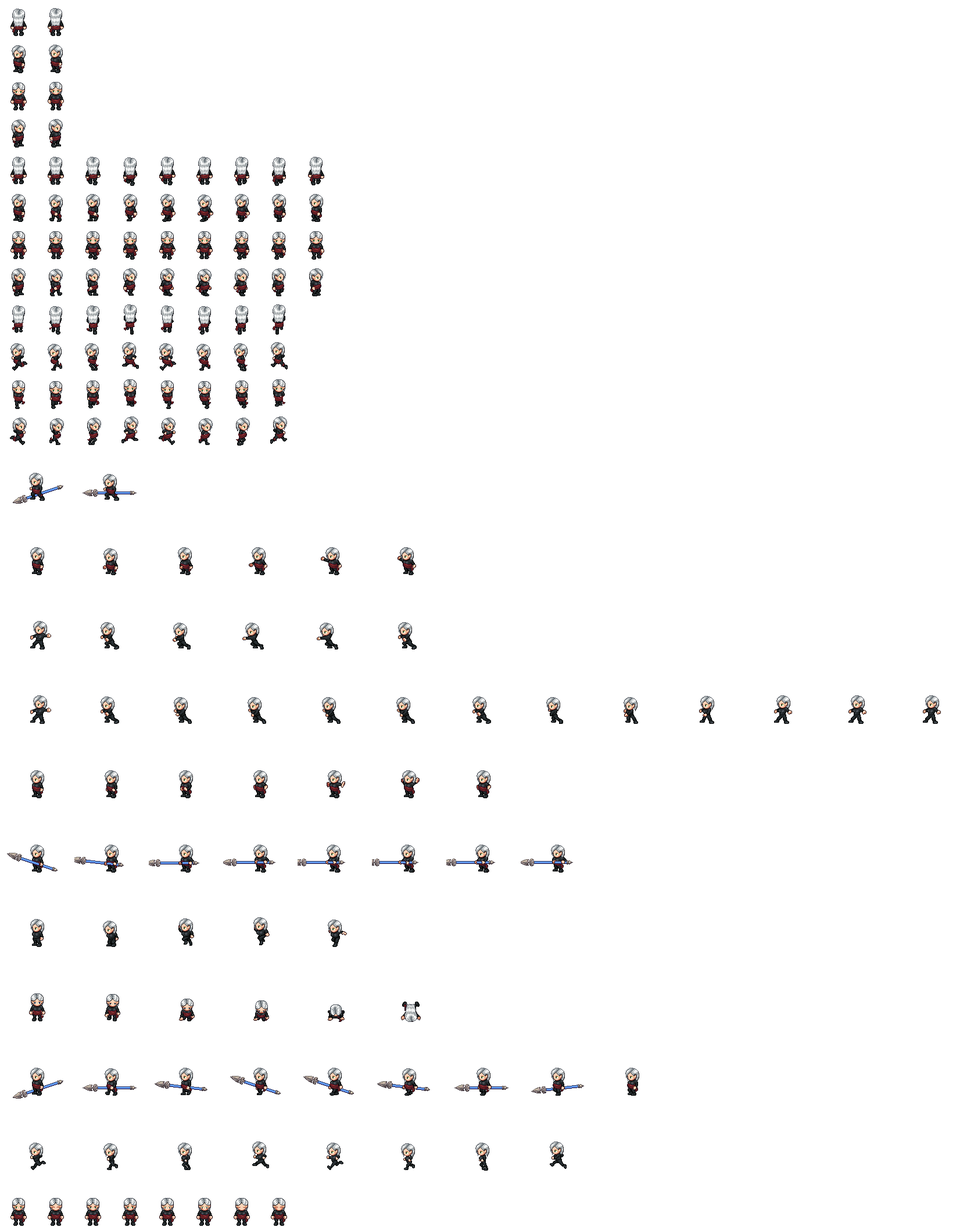
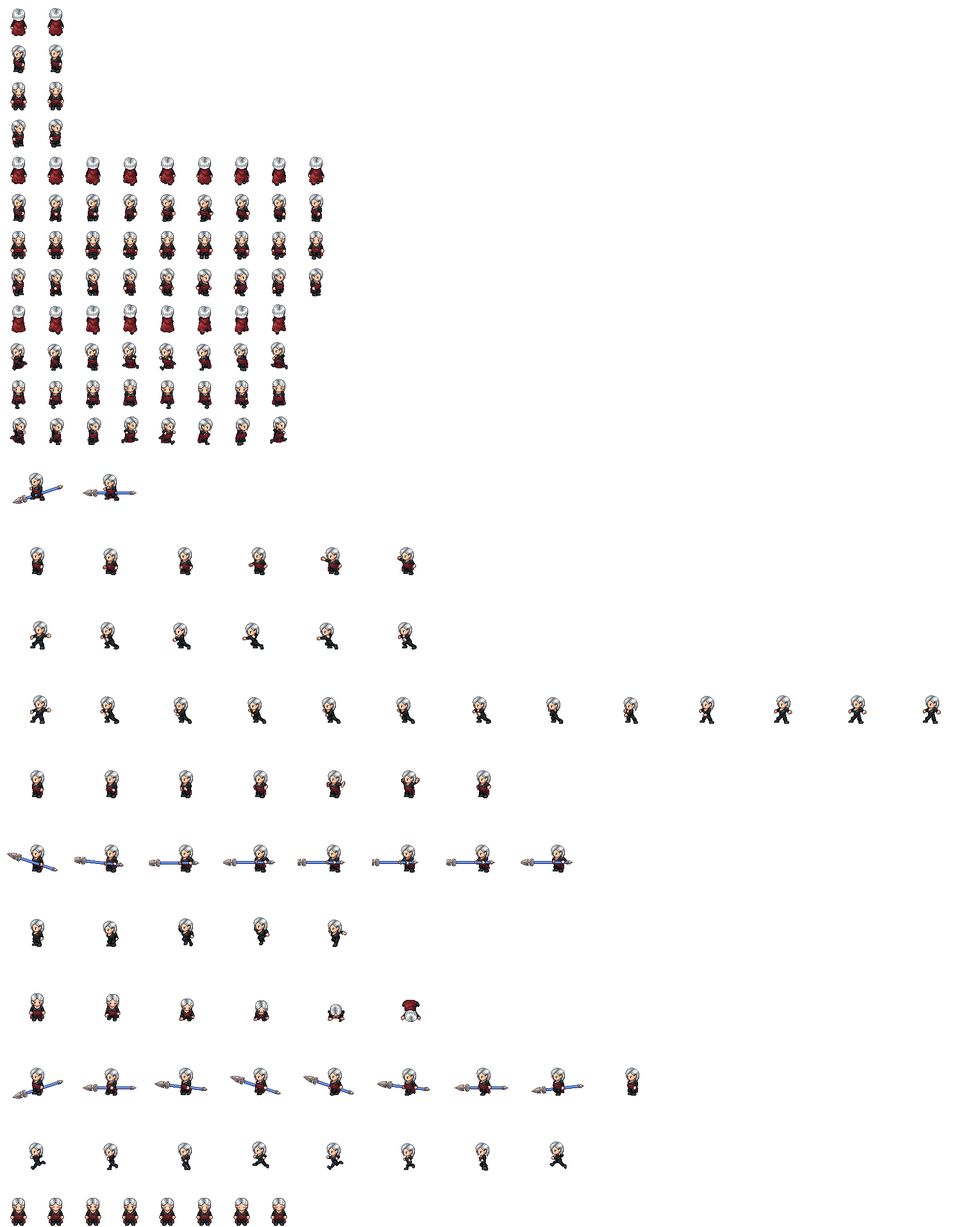
Emerald Blood: customize Ilya & Kairo in creator, Kairo's burned look, Liora redesign + romance scene, more hairstyles
Claude-Session: https://claude.ai/code/session_01Y9XB2BHqdWdEP8tdmCfuZX

diff --git a/emerald-blood/js/ui.js b/emerald-blood/js/ui.js
@@ -42,37 +42,92 @@ const UI = {
   creator() {
     return new Promise(resolve => {
       $('#title').classList.add('hide'); $('#creator').classList.remove('hide'); G.mode = 'creator';
-      const look = defaultLook(); let name = 'Ren';
-      G.S = newState(look, name);
+      const look = defaultLook(); let name = 'Ren', tab = 'me';
+      G.S = newState(look, name); const cast = G.S.cast;
       const box = $('#crOpts');
       const swatch = (mat, key) => { const p = G.man.pal[mat][key]; return p ? p[Math.min(3, p.length - 1)] : '#888'; };
-      let prev = null, dirI = 0, animT = 0, raf = 0;
-      const rebuild = () => { prev = composeLook(look, false, [0, 0, 576, 512]); playerPortrait($('#crPort'), 'happy'); };
+      const KCOL = { black: '#2a2a2e', blue: '#3a5fc0', brown: '#7a4e2c', gray: '#8a8f96', green: '#3f8f4a', lavender: '#b39ad8', lightblue: '#8ec8ee', pink: '#f29ac0', red: '#c43c3c', white: '#eeeeee', darkblue: '#24346e', maroon: '#7a2436' };
+      let prev = null, prev2 = null, dirI = 0, raf = 0;
+      const region = [0, 0, 576, 512];
+      const listPreview = (list, cell0) => {
+        const out = document.createElement('canvas'); out.width = 576; out.height = 512; const o = out.getContext('2d');
+        for (const [pn, col] of list) { const img = G.img['part_' + pn], meta = G.man.parts[pn]; if (!img || !meta) continue;
+          const c = document.createElement('canvas'); c.width = 576; c.height = 512; c.getContext('2d').drawImage(img, 0, 0, 576, 512, 0, 0, 576, 512); o.drawImage(recolor(c, meta.mat, meta.base, col), 0, 0); }
+        return out;
+      };
+      const listPortrait = (cv, list, expr, kid) => {
+        const x = cv.getContext('2d'); x.imageSmoothingEnabled = false; x.clearRect(0, 0, 32, 36); const ei = Math.max(0, EXPRS.indexOf(expr)), oy = kid ? 15 : 4;
+        for (const [pn, col] of list) { const img = G.img['part_' + pn], meta = G.man.parts[pn]; if (!img || !meta) continue;
+          const t = document.createElement('canvas'); t.width = 32; t.height = 36; t.getContext('2d').drawImage(img, (pn.startsWith('face_') ? ei * 64 : 0) + 16, img.height - 64 + oy, 32, 36, 0, 0, 32, 36);
+          x.drawImage(recolor(t, meta.mat, meta.base, col), 0, 0); }
+        glowEyes(x, 32, 36);
+      };
+      const rebuild = () => {
+        if (tab === 'me') { prev = composeLook(look, false, region); prev2 = null; playerPortrait($('#crPort'), 'happy'); }
+        else if (tab === 'ilya') { const L = castLists(cast).ilya; prev = listPreview(L); prev2 = null; listPortrait($('#crPort'), L, 'happy', true); }
+        else { const L = castLists(cast); prev = listPreview(L.kairo_kid); prev2 = listPreview(L.kairo_b.filter(([p]) => !p.startsWith('katana'))); listPortrait($('#crPort'), L.kairo_b.filter(([p]) => !p.startsWith('katana')), 'neutral', false);
+          const px = $('#crPort').getContext('2d'), d = px.getImageData(0, 0, 32, 36), q = d.data;
+          for (const [bx, by] of burnPts(27, 29, 1)) { const X = bx - 16, Y = by - 4; if (X < 0 || Y < 0 || X >= 32 || Y >= 36) continue; const i = (Y * 32 + X) * 4, r = q[i], g = q[i + 1], b = q[i + 2];
+            if (q[i + 3] && r > b + 18 && r >= g && !(g > 150 && g > r + 40)) { q[i] = r * .45 + 124; q[i + 1] = g * .45 + 44; q[i + 2] = b * .45 + 45; } }
+          px.putImageData(d, 0, 0); }
+        $('#crNote').innerHTML = tab === 'me' ? "Every Drag's eyes glow green.<br>That part you can't change.<br><span style='color:#ffd88a'>Your story begins when you are ten.</span>"
+          : tab === 'ilya' ? "Ilya. Your little sister.<br>Turning six. Unstoppable.<br><span style='color:#ffd88a'>She'll never take off her ribbon.</span>"
+          : "Kairo. Your best friend.<br>Your rival. Your brother.<br><span style='color:#ffd88a'>Shown as a kid, then seven years later — scarred.</span>";
+      };
       const draw = t => {
         if ($('#creator').classList.contains('hide')) return;
         const c = $('#crCv').getContext('2d'); c.imageSmoothingEnabled = false; c.clearRect(0, 0, 64, 64);
-        if (prev) { const d = ['down', 'left', 'up', 'right'][Math.floor(t / 2400) % 4]; drawOW(c, prev, 'walk', d, 1 + Math.floor(t / 110) % 8, 32, 60); }
+        const img = prev2 && Math.floor(t / 4800) % 2 ? prev2 : prev;
+        if (img) { const d = ['down', 'left', 'up', 'right'][Math.floor(t / 2400) % 4]; drawOW(c, img, 'walk', d, 1 + Math.floor(t / 110) % 8, 32, 60); }
         raf = requestAnimationFrame(draw);
       };
       const render = () => {
-        const row = (label, key, opts, names) => `<div class="opt"><label>${label}</label><button class="arr" data-k="${key}" data-d="-1">◀</button><div class="val">${esc((names || {})[look[key]] || look[key].replace(/_/g, ' '))}</div><button class="arr" data-k="${key}" data-d="1">▶</button></div>`;
-        const sw = (label, key, mat, opts) => `<div class="opt"><label>${label}</label><div class="sw">${opts.map(o => `<button data-k="${key}" data-v="${o}" class="${look[key] === o ? 'on' : ''}" style="background:${swatch(mat, o)}" title="${o}"></button>`).join('')}</div></div>`;
-        box.innerHTML = `<h2>WHO ARE YOU?</h2>
+        const obj = tab === 'me' ? look : tab === 'ilya' ? cast.ilya : cast.kairo;
+        const row = (label, key, opts, names) => `<div class="opt"><label>${label}</label><button class="arr" data-k="${key}" data-o="${opts}" data-d="-1">◀</button><div class="val">${esc((names || {})[obj[key]] || String(obj[key]).replace(/_/g, ' '))}</div><button class="arr" data-k="${key}" data-o="${opts}" data-d="1">▶</button></div>`;
+        const sw = (label, key, mat, opts) => `<div class="opt"><label>${label}</label><div class="sw">${opts.map(o => `<button data-k="${key}" data-v="${o}" class="${obj[key] === o ? 'on' : ''}" style="background:${mat ? swatch(mat, o) : KCOL[o]}" title="${o}"></button>`).join('')}</div></div>`;
+        const tabs = `<div class="crTabs">${[['me', 'You'], ['ilya', 'Ilya'], ['kairo', 'Kairo']].map(([k, n]) => `<button data-tab="${k}" class="${tab === k ? 'on' : ''}">${n}</button>`).join('')}</div>`;
+        const ILC = ['pink', 'rose', 'black', 'raven', 'dark_brown', 'chestnut', 'ginger', 'blonde', 'platinum', 'white', 'red', 'purple', 'navy', 'green'];
+        let body = '';
+        if (tab === 'me') body = `<h2>WHO ARE YOU?</h2>
           <div class="opt"><label>Name</label><input id="crName" maxlength="12" value="${esc(name)}" autocomplete="off"></div>
-          ${row('Body', 'sex', LOOK_OPTS.sex, { male: 'Brother to Ilya', female: 'Sister to Ilya' })}
+          ${row('Body', 'sex', 'sex', { male: 'Brother to Ilya', female: 'Sister to Ilya' })}
           ${sw('Skin', 'skin', 'body', LOOK_OPTS.skin)}
-          ${row('Hair', 'hair', LOOK_OPTS.hair, HAIR_NAMES)}
+          ${row('Hair', 'hair', 'hair', HAIR_NAMES)}
           ${sw('Hair color', 'hairCol', 'hair', LOOK_OPTS.hairCol)}
-          ${look.sex === 'male' ? row('Facial hair', 'beard', LOOK_OPTS.beard) : ''}
+          ${look.sex === 'male' ? row('Facial hair', 'beard', 'beard') : ''}
           ${sw('Gi', 'top', 'cloth', LOOK_OPTS.cloth)}
           ${sw('Pants', 'pants', 'cloth', LOOK_OPTS.cloth)}
           ${sw('Sash', 'obi', 'cloth', LOOK_OPTS.cloth)}
-          ${sw('Hood', 'hood', 'cloth', LOOK_OPTS.cloth)}
-          <div class="btnrow"><button class="btn" id="crRand">🎲 Random</button><button class="btn pri" id="crGo" style="flex:1">Begin ▶</button></div>`;
-        $('#crName').addEventListener('input', e => { name = e.target.value; G.S.name = name || 'Ren'; });
-        box.querySelectorAll('.arr').forEach(b => bindTap(b, () => { const k = b.dataset.k, L = LOOK_OPTS[k === 'sex' ? 'sex' : k === 'hair' ? 'hair' : 'beard'], i = L.indexOf(look[k]); look[k] = L[(i + (+b.dataset.d) + L.length) % L.length]; if (k === 'sex' && look.sex === 'female') look.beard = 'none'; sfx('blip'); render(); rebuild(); }));
-        box.querySelectorAll('.sw button').forEach(b => bindTap(b, () => { look[b.dataset.k] = b.dataset.v; sfx('blip'); render(); rebuild(); }));
-        bindTap($('#crRand'), () => { look.sex = pick(LOOK_OPTS.sex); look.skin = pick(LOOK_OPTS.skin); look.hair = pick(LOOK_OPTS.hair); look.hairCol = pick(LOOK_OPTS.hairCol.slice(0, 10)); look.beard = look.sex === 'male' ? pick(LOOK_OPTS.beard) : 'none'; ['top', 'pants', 'obi', 'hood'].forEach(k => look[k] = pick(LOOK_OPTS.cloth)); sfx('blip'); render(); rebuild(); });
+          ${sw('Hood', 'hood', 'cloth', LOOK_OPTS.cloth)}`;
+        else if (tab === 'ilya') body = `<h2>YOUR SISTER — ILYA</h2>
+          ${sw('Skin', 'skin', 'body', LOOK_OPTS.skin)}
+          ${row('Hair', 'hair', 'ilyaHair', ILYA_HAIR_NAMES)}
+          ${sw('Hair color', 'hairCol', 'hair', ILC)}
+          ${sw('Shirt', 'top', null, G.man.kid.shirts)}
+          ${row('Wears', 'skirt', 'skirt', { true: 'Skirt', false: 'Pants' })}
+          ${sw(cast.ilya.skirt ? 'Skirt' : 'Pants', 'bottom', null, cast.ilya.skirt ? G.man.kid.skirts : G.man.kid.pants)}`;
+        else body = `<h2>YOUR RIVAL — KAIRO</h2>
+          ${sw('Skin', 'skin', 'body', LOOK_OPTS.skin)}
+          ${row('Hair', 'hair', 'kairoHair', HAIR_NAMES)}
+          ${sw('Hair color', 'hairCol', 'hair', LOOK_OPTS.hairCol)}
+          ${sw('Gi', 'top', 'cloth', LOOK_OPTS.cloth)}
+          ${sw('Pants', 'pants', 'cloth', LOOK_OPTS.cloth)}
+          ${sw('Sash', 'obi', 'cloth', LOOK_OPTS.cloth)}
+          ${sw('Cape (later)', 'cape', 'cloth', LOOK_OPTS.cloth)}`;
+        box.innerHTML = tabs + body + `<div class="btnrow"><button class="btn" id="crRand">🎲 Random</button><button class="btn pri" id="crGo" style="flex:1">Begin ▶</button></div>`;
+        const ni = $('#crName'); if (ni) ni.addEventListener('input', e => { name = e.target.value; G.S.name = name || 'Ren'; });
+        box.querySelectorAll('.crTabs button').forEach(b => bindTap(b, () => { tab = b.dataset.tab; sfx('blip'); render(); rebuild(); }));
+        const OPTS = { sex: LOOK_OPTS.sex, hair: LOOK_OPTS.hair, beard: LOOK_OPTS.beard, ilyaHair: ILYA_HAIR, kairoHair: KAIRO_HAIR, skirt: [true, false] };
+        box.querySelectorAll('.arr').forEach(b => bindTap(b, () => { const k = b.dataset.k, L = OPTS[b.dataset.o], i = L.indexOf(obj[k]); obj[k] = L[(i + (+b.dataset.d) + L.length) % L.length];
+          if (k === 'sex' && look.sex === 'female') look.beard = 'none';
+          if (k === 'skirt') { const L2 = obj.skirt ? G.man.kid.skirts : G.man.kid.pants; if (!L2.includes(obj.bottom)) obj.bottom = L2[0]; }
+          sfx('blip'); render(); rebuild(); }));
+        box.querySelectorAll('.sw button').forEach(b => bindTap(b, () => { obj[b.dataset.k] = b.dataset.v; sfx('blip'); render(); rebuild(); }));
+        bindTap($('#crRand'), () => {
+          if (tab === 'me') { look.sex = pick(LOOK_OPTS.sex); look.skin = pick(LOOK_OPTS.skin); look.hair = pick(LOOK_OPTS.hair); look.hairCol = pick(LOOK_OPTS.hairCol.slice(0, 10)); look.beard = look.sex === 'male' ? pick(LOOK_OPTS.beard) : 'none'; ['top', 'pants', 'obi', 'hood'].forEach(k => look[k] = pick(LOOK_OPTS.cloth)); }
+          else if (tab === 'ilya') { const I = cast.ilya; I.skin = pick(LOOK_OPTS.skin); I.hair = pick(ILYA_HAIR); I.hairCol = pick(ILC); I.top = pick(G.man.kid.shirts); I.skirt = Math.random() < .6; I.bottom = pick(I.skirt ? G.man.kid.skirts : G.man.kid.pants); }
+          else { const K = cast.kairo; K.skin = pick(LOOK_OPTS.skin); K.hair = pick(KAIRO_HAIR); K.hairCol = pick(LOOK_OPTS.hairCol.slice(0, 10)); ['top', 'pants', 'obi', 'cape'].forEach(k => K[k] = pick(LOOK_OPTS.cloth)); }
+          sfx('blip'); render(); rebuild(); });
         bindTap($('#crGo'), () => { cancelAnimationFrame(raf); G.S.name = (name || 'Ren').trim().slice(0, 12) || 'Ren'; $('#creator').classList.add('hide'); sfx('start'); resolve(); });
       };
       render(); rebuild(); raf = requestAnimationFrame(draw);
@@ -83,7 +138,7 @@ const UI = {
     audioUnlock();
     await this.creator();
     G.mode = 'boot'; $('#loading').classList.remove('hide'); $('#loadTxt').textContent = 'Forging your Drag…'; $('#loadBar').style.width = '60%';
-    await wait(30); await buildPlayerSprites(); $('#loading').classList.add('hide');
+    await wait(30); await buildPlayerSprites(); await applyCast(); $('#loading').classList.add('hide');
     await this.intro([
       'Four hundred years ago, the demon dragon Fratenaptor nearly ended the world. Even the dragons curse his name.',
       'The people say the Drags worshipped him. That his fire lives in their blood. That you can always know a Drag by their eyes — green, and glowing.',
@@ -98,7 +153,7 @@ const UI = {
     const s = loadSave(); if (!s) return; audioUnlock();
     G.S = s; $('#title').classList.add('hide');
     G.mode = 'boot'; $('#loading').classList.remove('hide'); $('#loadTxt').textContent = 'Waking up…';
-    await wait(30); await buildPlayerSprites(); $('#loading').classList.add('hide');
+    await wait(30); if (!G.S.cast) G.S.cast = defaultCast(); await buildPlayerSprites(); await applyCast(); $('#loading').classList.add('hide');
     G.mode = 'world'; await World.load(s.map, s.x, s.y, s.dir); this.controls(true); this.hud();
     await fadeIn(500); banner(SCENES[s.map].title || '', SCENES[s.map].subtitle || '');
   },
@@ -166,7 +221,7 @@ const UI = {
         `<div class="stat"><h3>How to fight</h3><p>On your attacks, tap when the gold ring closes for a <b>PERFECT</b> hit (×1.5, can't be dodged or parried).</p><p>On enemy attacks: <b>DODGE</b> (wide window) or <b>PARRY</b> (tight window). Perfect timing earns MP. Parry <b>every</b> hit of an attack to COUNTER.</p><p>Red <b>!!</b> attacks can't be parried — dodge them. Fill an enemy's yellow bar to <b>BREAK</b> them.</p></div>`;
     } else if (t === 'items') {
       body = `<div class="grid2"><div class="stat"><h3>Tonic ×${S.items.tonic}</h3><p>Restores 45% HP.</p><button class="btn" id="useT" ${S.items.tonic && s.hp < s.maxHp ? '' : 'disabled'}>Use</button></div><div class="stat"><h3>Ether ×${S.items.ether}</h3><p>Restores 12 MP.</p><button class="btn" id="useE" ${S.items.ether && s.mp < s.maxMp ? '' : 'disabled'}>Use</button></div>
-        ${S.f.shard ? '<div class="stat"><h3>Drag Shard</h3><p>Green stone from Fratenaptor\'s tomb. It drinks mana from the air. +1 MP every turn in battle.</p></div>' : ''}<div class="stat"><h3>Ilya's ribbon</h3><p>Half a green silk ribbon, tied in a terrible knot. "So you can always find me."</p></div>${S.f.hoodGiven ? '<div class="stat"><h3>Grandfather\'s hood</h3><p>Mended a hundred times. No one ever saw his eyes.</p></div>' : ''}</div>`;
+        ${S.f.shard ? '<div class="stat"><h3>Drag Shard</h3><p>Green stone from Fratenaptor\'s tomb. It drinks mana from the air. +1 MP every turn in battle.</p></div>' : ''}<div class="stat"><h3>Ilya's ribbon</h3><p>Half a green silk ribbon, tied in a terrible knot. "So you can always find me."</p></div>${S.f.lioraPin ? '<div class="stat"><h3 style="color:#ff9ccc">Liora\'s hairpin</h3><p>A silver spear the length of your finger, tipped with a chip of green stone. Her mother\'s. You promised to give it back.</p></div>' : ''}${S.f.hoodGiven ? '<div class="stat"><h3>Grandfather\'s hood</h3><p>Mended a hundred times. No one ever saw his eyes.</p></div>' : ''}</div>`;
     } else if (t === 'quests') {
       body = `<div class="stat"><h3>Main</h3><p>${esc(S.quest || '—')}</p></div>` + (S.side ? `<div class="stat" style="margin-top:6px"><h3>Side</h3><p>${esc(S.side)}</p></div>` : '') +
         `<div class="stat" style="margin-top:6px"><h3>Suspicion ${Math.floor(S.sus)}/5</h3><p>How sure the Hollow is that a Drag walks among them. Every new person who sees your eyes adds to it. High suspicion closes doors, raises prices — and brings hunters.</p></div>`;

diff --git a/emerald-blood/js/story.js b/emerald-blood/js/story.js
@@ -804,10 +804,11 @@ async function crate() {
 async function talkAlpha() {
   const f = F();
   await narr('A huge black beast-man rears over a carcass — and between you and it stands a girl with a spear.');
-  await narr('Long white hair. Eyes as green as yours, and not hidden at all. She doesn\'t look back at you.');
+  await narr('Long white hair, loose to her waist. A crimson cape. Eyes as green as yours — and not hidden at all.');
+  await narr('She is, without any question, the most beautiful person you have ever seen. She is also covered in wolf blood, and she doesn\'t look back at you.');
   await say('liora', 'anger', "Move. That one's mine.");
   const c0 = await ask('me', 'blush', '…', ["I'm not moving.", 'Let me help.']);
-  await say('liora', 'neutral', c0 === 0 ? "Then don't die where I have to step over you." : "Fine. Keep up.");
+  await say('liora', 'neutral', c0 === 0 ? "Then don't die where I have to step over you." : "Fine. Keep up."); if (c0 === 1) Story.heart(1);
   const r = await Battle.start({ enemies: ['lupine_alpha', 'lupine', 'lupine'], allies: ['liora'].concat(G.S.party), bd: 'forest', intro: 'The Lupine Alpha howls! Liora fights at your side.' });
   if (r === 'lose') { await Story.defeat(); return; }
   if (r !== 'win') return;
@@ -816,15 +817,17 @@ async function talkAlpha() {
   await say('liora', 'neutral', "You fight like someone trained you properly. Who?");
   const c = await ask('me', 'blush', '…', ['Who are you?', 'An old man with one arm.', "You're… incredible with that spear."]);
   if (c === 0) await say('liora', 'neutral', 'Liora. That\'s all you get. Now — who trained you?');
-  if (c === 2) await say('liora', 'shame', "…Don't. Every Drag boy between here and the mountains has tried that line. Answer the question.");
+  if (c === 2) { await say('liora', 'blush', "…Don't. Every Drag between here and the mountains has tried that line."); await say('liora', 'shame', "…Answer the question."); Story.heart(1); }
+  if (c === 1) Story.heart(1);
   await me('neutral', 'An old man in the Realm of No Return. One arm. He lost the other to Dread.');
   await say('liora', 'shock', "…The Sword Saint is ALIVE? Vane? The man who lasted four strokes against Dread?");
   await say('liora', 'anger', "Dread killed my mother. In our doorway, while I watched from under the stairs. I was eight.");
   await say('liora', 'anger', "I've spent every day since getting good enough to put this spear through his heart. I'm almost there.");
   const c2 = await ask('liora', 'neutral', "So don't get in my way, Sword Saint's student.", ["Revenge isn't the way. Someone taught me that.", "Then we want the same man.", "Let me help you."]);
   if (c2 === 0) await say('liora', 'anger', "Easy to say when your monster only took your sister. Mine took everything. Come back when you've buried someone.");
-  else if (c2 === 1) await say('liora', 'neutral', "No. You want your sister. I want his heart. Only one of those ends at Dread.");
-  else await say('liora', 'happy', "…Ha. You're sweet. I don't need help. I work alone. Kairo's been asking for three years and the answer's still no.");
+  else if (c2 === 1) { await say('liora', 'neutral', "No. You want your sister. I want his heart. Only one of those ends at Dread."); Story.heart(1); }
+  else { await say('liora', 'happy', "…Ha. You're sweet. I don't need help. I work alone. Kairo's been asking for three years and the answer's still no."); Story.heart(1); }
+  if (c2 === 0) F().lioraRevenge = true;
   await say('liora', 'neutral', "Don't follow me.");
   await narr('She\'s gone between the trees before you can answer. You realize you\'re still staring at the place where she was.');
   World.remove('liora');
@@ -892,6 +895,7 @@ async function ending() {
   await narr("You tie it to your wrist, next to yours. Now they make one whole knot.");
   await me('sad', "I'll find you. Dragon law.");
   await kairoDuel();
+  await millRoof();
   if (f.kessJoined) {
     await say('kessE', 'neutral', 'Greyspire. Nobody comes back from Greyspire.');
     const k = await ask('kessE', 'neutral', '…So what now?', ["Then I'll be the first.", "We'll be the first."]);
@@ -957,7 +961,7 @@ async function kairoDuel() {
   await W.addNpc({ id: 'reb1', sprite: 'tamsin', x: 16, y: 17, dir: 'up' }); await W.addNpc({ id: 'reb2', sprite: 'bo', x: 18, y: 17, dir: 'up' });
   await W.addNpc({ id: 'reb3', sprite: 'ge_dace', x: 15, y: 17, dir: 'up' }); await W.addNpc({ id: 'reb4', sprite: 'ge_wren', x: 19, y: 17, dir: 'up' }); await W.addNpc({ id: 'reb5', sprite: 'ge_sefa', x: 17, y: 18, dir: 'up' });
   W.player.dir = 'down';
-  await narr('A tall figure steps into the lamplight. Black spiked hair. Half his face a map of old burns. Green eyes you would know anywhere.');
+  await narr('A tall figure steps into the lamplight. Long black hair, hanging in ragged strands across his face. Under it, a burn the colour of raw meat spreads over one eye. Green eyes you would know anywhere.');
   await me('shock', "…Kairo.");
   await say('kairoB', 'neutral', "Seven years, {name}. You got tall.");
   await say('kairoB', 'neutral', "Lark said you came out of the Realm of No Return. Nobody comes out of there. …I should've known you'd be the first.");
@@ -1015,6 +1019,7 @@ async function kairoDuel() {
   await say('liora', 'neutral', "Your cages were empty before you got here, Kairo. Dread moved the children to Greyspire. And he'll be there himself in nine days.");
   await say('kairoB', 'neutral', "Then come with us. Greyspire's walls won't fall to one spear.");
   await say('liora', 'neutral', "I don't join, Kairo. I help, when it suits me. Tonight it suited me.");
+  if (f.duel === 'won') { await narr('She looks at the ash still flaking off Kairo\'s arms. For a heartbeat her face does something soft and unguarded.'); await say('liora', 'sad', "You used it again. The Bloom. You promised me you'd stop doing that to yourself."); await say('kairoB', 'blush', "…You were counting?"); await say('liora', 'anger', "Somebody has to."); }
   if (F().lioraMet) await say('liora', 'happy', "And you, Sword Saint's student. Still alive. Good. At Greyspire, stay out of my way — or keep up.");
   else await say('liora', 'neutral', "Who's this? …Another Drag with a hood and a grudge. Wonderful. Stay out of my way at Greyspire.");
   await narr("She's gone over the mill roof as quietly as she came.");
@@ -1030,6 +1035,48 @@ async function kairoDuel() {
   await say('kairoB', 'happy', "…See you at Greyspire, brother. Try to keep up.");
   await narr('Green Eclipse melts back into the trees. In a heartbeat, the clearing is empty again.');
   W.remove('kairo'); ['reb1', 'reb2', 'reb3', 'reb4', 'reb5'].forEach(r => W.remove(r)); f.millDone = true;
+}
+
+/* ---- Liora: a heart pulled two ways ---- */
+Story.heart = function (n) {
+  const f = F(); f.lioraAff = (f.lioraAff || 0) + n;
+  const r = $('#portR').getBoundingClientRect(), h = document.createElement('div'); h.className = 'heart'; h.textContent = '♥';
+  h.style.left = (r.left + r.width * .7) + 'px'; h.style.top = (r.top + 12) + 'px'; document.body.appendChild(h); setTimeout(() => h.remove(), 1500);
+};
+async function millRoof() {
+  const f = F(); if (f.roofDone) return; f.roofDone = true;
+  Music.play('night'); await fadeOut(900); await wait(300); await fadeIn(900);
+  await narr('Later. Green Eclipse\'s fires burn low in the trees. Everyone who can sleep is asleep.');
+  await narr('You can\'t. And when you look up, neither can she — Liora is sitting on the ridge of the mill roof, moonlight caught in her white hair like frost.');
+  await narr('There\'s a ladder. You climb it before you can talk yourself out of it.');
+  await say('liora', 'neutral', "You followed me. Kairo would have too. He'd have brought a speech.");
+  const a = await ask('me', 'neutral', '…', ["I couldn't sleep.", "You look… really beautiful up here.", "Are you okay?"]);
+  if (a === 0) { await say('liora', 'neutral', "Neither could I. I never can, the night before something."); Story.heart(1); }
+  else if (a === 1) {
+    if ((f.lioraAff || 0) >= 2) { await say('liora', 'blush', "…You say that like you mean it. Most people say it like a password."); await say('liora', 'shame', "Sit down before I push you off the roof."); Story.heart(1); }
+    else await say('liora', 'anger', "Careful. I've put spears through people for less.");
+  } else { await say('liora', 'sad', "…Nobody asks me that. They ask how many I've killed, or what Dread looks like up close. Not that."); Story.heart(2); }
+  await narr('She hums something under her breath. Old. Slow. A lullaby with the words worn off.');
+  await say('liora', 'sad', "My mother's song. Seren — that was her name. She braided my hair on nights like this and sang it wrong on purpose so I'd correct her.");
+  await say('liora', 'sad', "Dread came on a night like this too. Clear sky. I counted his footsteps from under the stairs. Eleven. I still count to eleven before I fall asleep.");
+  const b = await ask('me', 'neutral', '…', ["What will you do after Dread?", "Kairo cares about you. A lot.", "(Sit a little closer.)"]);
+  if (b === 0) {
+    if ((f.lioraAff || 0) >= 4) { await say('liora', 'blush', "After? …I never let myself imagine an after. Tonight I almost can."); await say('liora', 'shame', "Don't make me say more than that."); Story.heart(1); }
+    else await say('liora', 'neutral', "There is no after. There's Dread, and then there's whatever's left of me. I don't plan for it.");
+  } else if (b === 1) {
+    await say('liora', 'sad', "I know. Kairo carried me out of a burning fort when I was fifteen. He was bleeding worse than me and he wouldn't put me down.");
+    await say('liora', 'neutral', "He's loud, and angry, and he'd burn the whole world for anyone with green eyes. …Some days that's exactly what I love about him. Some days it's what scares me.");
+    await say('liora', 'blush', "…And then someone like you climbs a ladder. Ugh. Forget I said any of this.");
+    Story.heart(1); f.lioraKairoTalk = true;
+  } else { await narr('She doesn\'t move away. After a while, her shoulder rests against yours. Neither of you mentions it.'); await say('liora', 'blush', "…Just tonight. Don't make it a thing."); Story.heart(2); }
+  if ((f.lioraAff || 0) >= 5) {
+    await narr('She pulls a silver pin from her hair — a tiny spear, its tip set with a chip of green stone — and presses it into your palm.');
+    await say('liora', 'blush', "My mother's. Give it back to me when this is over. That way I have to live long enough to collect it.");
+    f.lioraPin = true; sfx('level'); toast("You received <b style=\"color:#ff9ccc\">Liora's hairpin</b>. A promise to come back.", 4200);
+  } else await say('liora', 'neutral', "Go sleep, Sword Saint's student. Greyspire won't care how tired you are.");
+  await narr('Below the roof, at the edge of the trees, a pair of green eyes is watching. Then they turn away into the dark.');
+  if (f.lioraAff >= 5) await say('kairoB', 'sad', "(…Of everyone in the world, brother. It had to be you.)");
+  Music.play('sad');
 }
 
 async function talkKids(e) {

diff --git a/emerald-blood/js/core.js b/emerald-blood/js/core.js
@@ -84,8 +84,8 @@ function recolor(img, mat, base, target) {
 const LOOK_OPTS = {
   sex: ['male', 'female'],
   skin: ['light', 'amber', 'olive', 'taupe', 'bronze', 'brown', 'black'],
-  hair: ['dreadlocks_long', 'dreadlocks_short', 'twists_straight', 'twists_fade', 'cornrows', 'afro', 'high_ponytail', 'long_tied', 'braid', 'buzzcut', 'curly_short', 'bob', 'pixie', 'natural', 'long', 'none'],
-  hairCol: ['black', 'raven', 'dark_brown', 'chestnut', 'light_brown', 'ginger', 'blonde', 'platinum', 'white', 'gray', 'red', 'navy', 'green'],
+  hair: ['dreadlocks_long', 'dreadlocks_short', 'twists_straight', 'twists_fade', 'cornrows', 'afro', 'high_ponytail', 'long_tied', 'braid', 'buzzcut', 'curly_short', 'bob', 'pixie', 'natural', 'long', 'long_straight', 'long_center_part', 'wavy', 'pigtails', 'bunches', 'spiked2', 'spiked', 'messy2', 'swoop_side', 'unkempt', 'long_messy', 'none'],
+  hairCol: ['black', 'dark_gray', 'raven', 'dark_brown', 'chestnut', 'light_brown', 'ginger', 'blonde', 'platinum', 'white', 'gray', 'red', 'navy', 'green'],
   beard: ['none', 'beard', 'mustache'],
   cloth: ['charcoal', 'black', 'slate', 'navy', 'bluegray', 'teal', 'forest', 'green', 'maroon', 'red', 'purple', 'walnut', 'brown', 'tan', 'white'],
 };
@@ -131,6 +131,78 @@ async function buildPlayerSprites() {
   G.A.pHair = composeLook(L, false); await wait(10);
   G.A.pHood = composeLook(L, true); await wait(10);
   G.A.sword = G.img.part_sword; G.A.swordBg = G.img.part_sword_bg; G.A.glow = G.img.part_glow; G.A.glowBg = G.img.part_glow_bg;
+}
+/* ---------- customizable cast: Ilya & Kairo ---------- */
+const KID_HAIR_X = { spiked2: 'swoop_side', spiked: 'swoop_side', messy2: 'relm_short', swoop_side: 'swoop_side', unkempt: 'wavy', long_messy: 'wavy', long_straight: 'wavy', long_center_part: 'wavy', wavy: 'wavy', pigtails: 'wavy', bunches: 'wavy' };
+Object.assign(KID_HAIR_MAP, KID_HAIR_X);
+const KAIRO_HAIR = ['unkempt', 'spiked2', 'spiked', 'messy2', 'swoop_side', 'long_messy', 'dreadlocks_short', 'twists_fade', 'cornrows', 'afro', 'buzzcut', 'curly_short', 'long_tied'];
+const ILYA_HAIR = ['wavy', 'jewfro', 'relm_short', 'swoop_side'];
+const ILYA_HAIR_NAMES = { wavy: 'Wavy & long', jewfro: 'Curly puff', relm_short: 'Short', swoop_side: 'Side swoop' };
+Object.assign(HAIR_NAMES, { long_straight: 'Long & sleek', long_center_part: 'Center part', wavy: 'Wavy', pigtails: 'Pigtails', bunches: 'Buns', spiked2: 'Spiked', spiked: 'Spiky', messy2: 'Messy', swoop_side: 'Side swoop', unkempt: 'Wild', long_messy: 'Long & messy' });
+function defaultCast() {
+  return { ilya: { skin: 'light', hair: 'wavy', hairCol: 'pink', top: 'white', bottom: 'green', skirt: true },
+           kairo: { skin: 'light', hair: 'unkempt', hairCol: 'dark_gray', top: 'black', pants: 'charcoal', obi: 'forest', cape: 'forest' } };
+}
+function castLists(cast) {
+  const I = cast.ilya, K = cast.kairo, kh = KID_HAIR_MAP[K.hair] || 'swoop_side';
+  const kidK = [['kbody', K.skin], ['kpants_' + (KID_PANTS_MAP[K.pants] || 'black'), null], ['kshirt_' + (KID_SHIRT_MAP[K.top] || 'black'), null], ['khead', K.skin], ['keyes', null], ['khair_' + kh, K.hairCol]];
+  const adultK = [['katana_bg', null]];
+  if (G.man.parts['hairbg_' + K.hair]) adultK.push(['hairbg_' + K.hair, K.hairCol]);
+  adultK.push(['body_male', K.skin], ['tabi_male', 'black'], ['sandals_male', 'black'], ['pants_male', K.pants], ['top_male', K.top], ['obi_male', K.obi], ['head_male', K.skin], ['face_male', K.skin],
+    ['hair_' + K.hair, K.hairCol], ['bandage_male', null], ['cape_tattered', K.cape], ['katana', null]);
+  const ilya = [['kbody', I.skin], [(I.skirt ? 'kskirt_' : 'kpants_') + I.bottom, null], ['kshirt_' + I.top, null], ['khead', I.skin], ['keyes', null], ['khair_' + I.hair, I.hairCol]];
+  return { ilya, kairo_kid: kidK, kairo_kidb: kidK, kairo_b: adultK };
+}
+// Kairo's burn: a raw red patch over his right eye, up into the brow and down the cheek (skin pixels only)
+function burnPts(ex, ey, k) {
+  const P = [];
+  for (let y = ey - 9; y <= ey + 10; y++) for (let x = ex - 7; x <= ex + 6; x++) {
+    const inE = ((x - ex + 1) / (5.5 * k)) ** 2 + ((y - ey) / (6.5 * k)) ** 2 <= 1;
+    const brow = x >= ex + 1 && x <= ex + 4 && y >= ey - 8 * k && y < ey - 4;
+    const drip = x >= ex - 3 && x <= ex && y > ey + 4 && y <= ey + 9 * k;
+    if (inE || brow || drip) P.push([x, y]);
+  }
+  return P;
+}
+function burnMask(x, W, PY, o) {
+  const pts = burnPts(o.ex, o.ey, o.k || 1);
+  const cells = [];
+  for (let e = 0; e < 8; e++) cells.push([e * 64, PY]);
+  for (const r of [2, 6, 10]) for (let c = 0; c < 9; c++) cells.push([c * 64, r * 64]);
+  for (const [cx, cy] of cells) {
+    if (cx + 64 > W) continue;
+    const d = x.getImageData(cx, cy, 64, 64), p = d.data;
+    for (const [px, py] of pts) { const i = (py * 64 + px) * 4, r = p[i], g = p[i + 1], b = p[i + 2];
+      if (p[i + 3] && r > b + 18 && r >= g && !(g > 150 && g > r + 40)) { p[i] = r * .45 + 225 * .55; p[i + 1] = g * .45 + 80 * .55; p[i + 2] = b * .45 + 82 * .55; } }
+    x.putImageData(d, cx, cy);
+  }
+}
+const SCAR_PTS = [[24,20],[25,20],[23,21],[24,21],[25,21],[26,21],[23,22],[24,22],[25,22],[24,23],[25,23],[26,23],[24,24],[25,24],[23,25],[24,25],[25,25],[24,26],[25,26],[26,26],[25,27],[26,27],[26,28]];
+function castAtlas(list, o) {
+  list = list.filter(([pn]) => G.img['part_' + pn] && G.man.parts[pn]);
+  const first = G.img['part_' + list[0][0]], W = first.width, H = first.height, PY = H - 64;
+  const out = document.createElement('canvas'); out.width = W; out.height = H; const x = out.getContext('2d');
+  const rec = list.map(([pn, col]) => [pn, recolor(G.img['part_' + pn], G.man.parts[pn].mat, G.man.parts[pn].base, col)]);
+  for (const [, c] of rec) x.drawImage(c, 0, 0, W, PY, 0, 0, W, PY);
+  // portrait row: face part carries the 8 expressions, everything else repeats its neutral cell
+  for (let e = 0; e < 8; e++) for (const [pn, c] of rec) { const sx = pn.startsWith('face_') ? e * 64 : 0; if (sx + 64 <= c.width) x.drawImage(c, sx, PY, 64, 64, e * 64, PY, 64, 64); }
+  if (o.mirror) { // part atlases face west in battle; enemies need to face east
+    const by = G.man.bt.y, t = document.createElement('canvas'); t.width = 128; t.height = 128; const tx = t.getContext('2d');
+    for (let y = by; y + 128 <= PY; y += 128) for (let cx = 0; cx + 128 <= W; cx += 128) {
+      tx.clearRect(0, 0, 128, 128); tx.drawImage(out, cx, y, 128, 128, 0, 0, 128, 128);
+      x.clearRect(cx, y, 128, 128); x.save(); x.translate(cx + 128, y); x.scale(-1, 1); x.drawImage(t, 0, 0); x.restore();
+    }
+  }
+  if (o.burn) burnMask(x, W, PY, o.burn);
+  return out;
+}
+async function applyCast() {
+  if (!G.S || !G.S.cast) return;
+  const L = castLists(G.S.cast);
+  G.img.ilya = castAtlas(L.ilya, {}); await wait(5);
+  G.img.kairo_kid = castAtlas(L.kairo_kid, { mirror: 1 }); await wait(5);
+  G.img.kairo_kidb = castAtlas(L.kairo_kidb, { burn: { ex: 27, ey: 34, k: .85 } }); await wait(5);
+  G.img.kairo_b = castAtlas(L.kairo_b, { mirror: 1, burn: { ex: 27, ey: 29 } });
 }
 function playerImg() { return G.S.hood ? G.A.pHood : G.A.pHair; }
 
@@ -329,7 +401,7 @@ function newState(look, name) {
   return {
     v: 2, kid: true, name: name || 'Ren', look, lvl: 1, xp: 0, gold: 20, hood: false, sus: 0, seen: {},
     stats: { hp: 52, maxHp: 52, mp: 16, maxMp: 16, atk: 11, def: 4, spd: 10 },
-    items: { tonic: 3, ether: 1 }, arts: ['fang', 'ward'],
+    items: { tonic: 3, ether: 1 }, arts: ['fang', 'ward'], cast: defaultCast(),
     party: [], allies: {},
     map: 'thornvale', x: 9, y: 14, dir: 'down',
     quest: '', side: '', f: {}, steps: 0, chapter: 0, playtime: 0

diff --git a/emerald-blood/index.html b/emerald-blood/index.html
@@ -74,6 +74,12 @@ button{font-family:inherit;color:inherit;cursor:pointer;border:0;background:none
 .port .tag{position:absolute;left:0;right:0;bottom:0;background:rgba(0,0,0,.72);font-size:12px;text-align:center;padding:2px;font-weight:700;letter-spacing:.5px}
 #portL .tag{color:var(--green)}
 #portR .tag{color:#ffd88a}
+.port.shine{border-color:#e9a6c4;background:radial-gradient(circle at 50% 35%,#4a2a3a,#140b10 75%);box-shadow:0 0 22px rgba(255,160,200,.45)}
+.port.shine::before,.port.shine::after{content:'✦';position:absolute;z-index:2;color:#ffe3f1;font-size:15px;text-shadow:0 0 6px #ff9ccc;animation:tw 1.8s ease-in-out infinite}
+.port.shine::before{top:10%;left:12%;animation-delay:.6s;font-size:11px}.port.shine::after{top:18%;right:12%}
+@keyframes tw{0%,100%{opacity:.15;transform:scale(.6) rotate(0)}50%{opacity:1;transform:scale(1.15) rotate(20deg)}}
+.heart{position:fixed;z-index:80;pointer-events:none;font-size:22px;color:#ff8fbf;text-shadow:0 0 8px #ff5c9e;animation:hup 1.4s ease-out forwards}
+@keyframes hup{from{opacity:0;transform:translateY(10px) scale(.6)}20%{opacity:1}to{opacity:0;transform:translateY(-50px) scale(1.2)}}
 #dlgBox{flex:1;max-width:620px;margin:0 8px;background:var(--panel);border:3px solid var(--line);border-radius:12px;padding:10px 14px 12px;min-height:118px;position:relative;align-self:flex-end;box-shadow:0 6px 24px #000c}
 #dlgName{font-weight:700;font-size:15px;color:var(--green);margin-bottom:3px;min-height:18px}
 #dlgName.npc{color:#ffd88a}
@@ -172,6 +178,7 @@ h1{font-family:'Press Start 2P';font-size:clamp(18px,3.4vw,30px);color:var(--gre
 #crCv{width:min(44vh,240px);height:min(44vh,240px);image-rendering:pixelated;background:radial-gradient(circle,#24402e,#0b120e 70%);border-radius:50%;border:3px solid var(--line)}
 #crPort{width:min(22vh,120px);height:min(24vh,132px);image-rendering:pixelated;border:3px solid var(--line);border-radius:10px;background:#0b120e}
 #crOpts{flex:1;max-height:100%;overflow:auto;padding-right:4px}
+#crOpts .crTabs{display:flex;gap:6px;margin:2px 0 8px}#crOpts .crTabs button{flex:1;font-family:'Press Start 2P';font-size:10px;padding:9px 4px;border-radius:9px;border:2px solid var(--line);background:#0e1a13;color:#cfe;cursor:pointer}#crOpts .crTabs button.on{background:#1f8a4c;color:#fff;border-color:#46ff95}
 #crOpts h2{font-family:'Press Start 2P';font-size:13px;color:var(--green);margin:4px 0 8px}
 .opt{display:flex;align-items:center;gap:8px;margin:5px 0;font-size:15px}
 .opt label{width:92px;color:var(--muted);flex:none}
@@ -248,7 +255,7 @@ h1{font-family:'Press Start 2P';font-size:clamp(18px,3.4vw,30px);color:var(--gre
 
 <div id="creator" class="ov hide">
   <div class="wrap">
-    <div id="crPrev"><canvas id="crCv" width="64" height="64"></canvas><canvas id="crPort" width="32" height="36"></canvas><div class="muted" style="font-size:13px;text-align:center">Every Drag's eyes glow green.<br>That part you can't change.<br><span style='color:#ffd88a'>Your story begins when you are ten.</span></div></div>
+    <div id="crPrev"><canvas id="crCv" width="64" height="64"></canvas><canvas id="crPort" width="32" height="36"></canvas><div id="crNote" class="muted" style="font-size:13px;text-align:center"></div></div>
     <div id="crOpts"></div>
   </div>
 </div>

diff --git a/emerald-blood/js/dialog.js b/emerald-blood/js/dialog.js
@@ -27,7 +27,7 @@ const Dlg = {
       this.partner = who;
       const img = G.img[C.sprite || who];
       if (img) portraitTo(R.querySelector('canvas'), img, expr, C.kid || (C.sprite || '').startsWith('kid') || C.sprite === 'pip' || C.sprite === 'ilya'); R.querySelector('.tag').textContent = C.name;
-      R.classList.remove('dim', 'off');
+      R.classList.remove('dim', 'off'); R.classList.toggle('shine', /^liora/.test(C.sprite || ''));
       playerPortrait(L.querySelector('canvas'), this.lastMe); L.querySelector('.tag').textContent = G.S.name;
       L.classList.remove('off'); L.classList.add('dim');
       if (C.noMe) L.classList.add('off');

diff --git a/emerald-blood/sw.js b/emerald-blood/sw.js
@@ -1,5 +1,5 @@
 // network-first so updates arrive immediately; cache keeps the game playable offline
-const C = 'emerald-blood-v6';
+const C = 'emerald-blood-v7';
 self.addEventListener('install', e => self.skipWaiting());
 self.addEventListener('activate', e => e.waitUntil(clients.claim()));
 self.addEventListener('fetch', e => {
